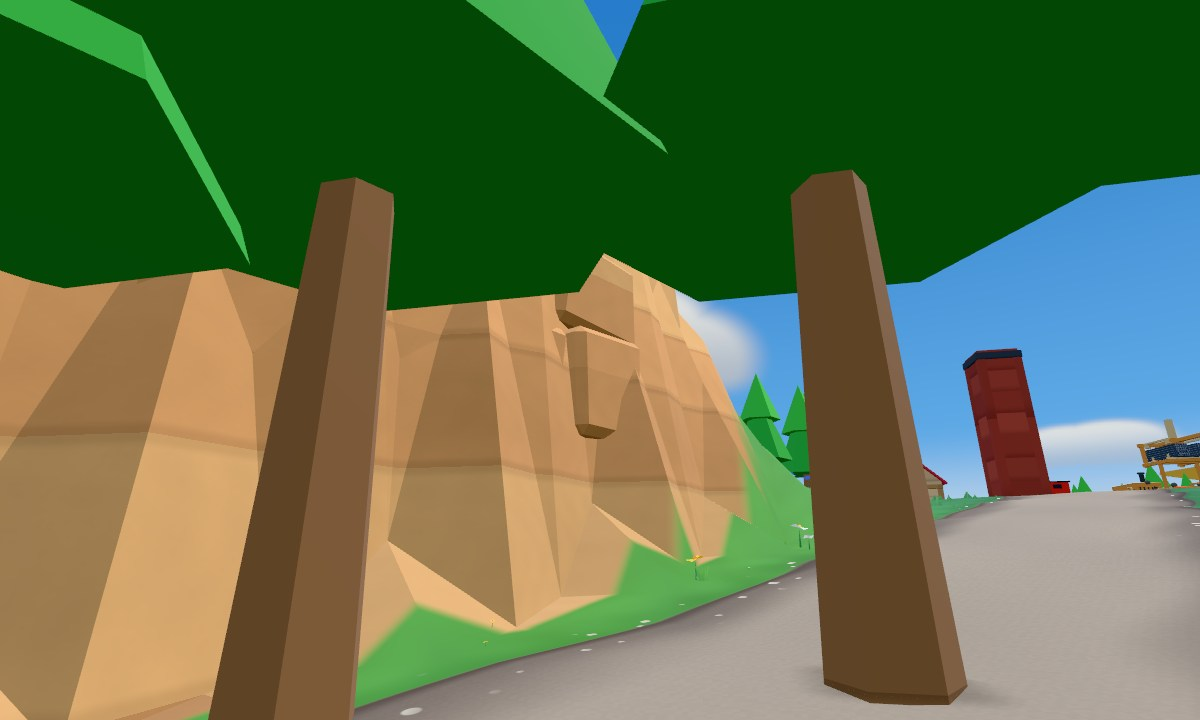
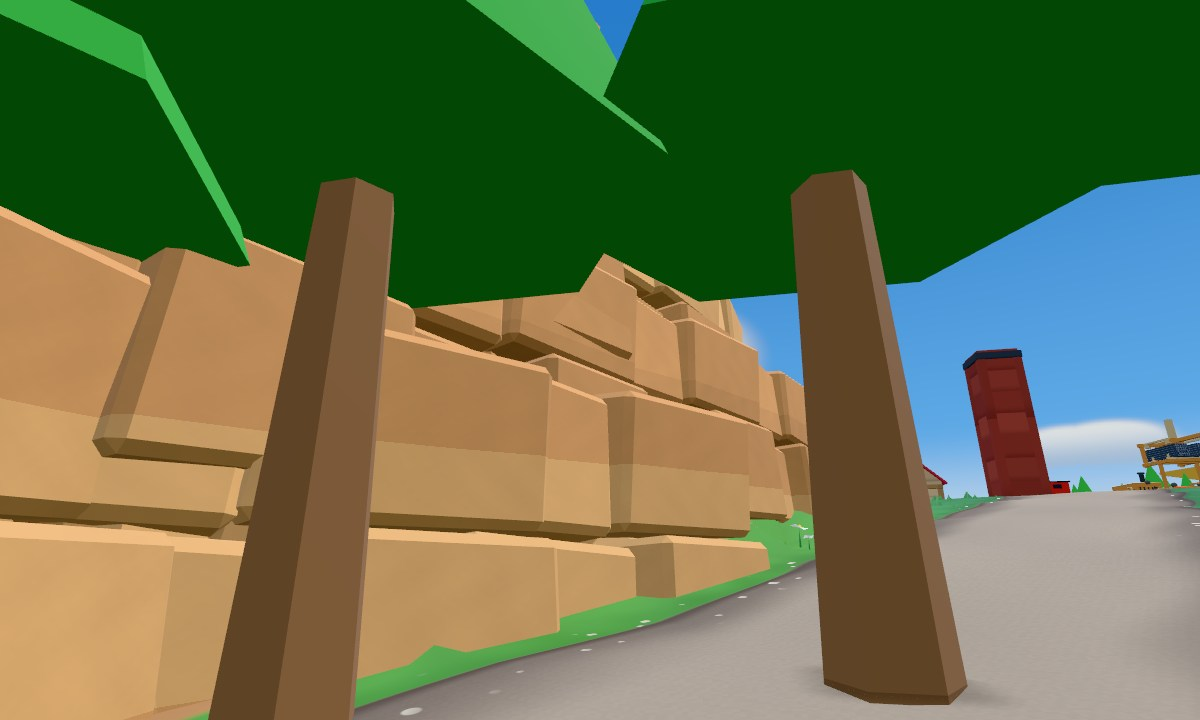
Show continuous cliff courses from the camp path and both rail views

diff --git a/docs/plans/cliff-kit-everywhere.md b/docs/plans/cliff-kit-everywhere.md
@@ -575,21 +575,23 @@ The kit adds 13,540 triangles per pass. At the mouth camera that is 27,080 trian
 
 ## Step 5 as built
 
-The [matched views](cliff-kit-everywhere/north-ridge-before-after.jpg) show the camp path, the east cutting and the ridge at eye level. Each wall mounts separately. The generator seats the ends and middle of each face against its own census wall. It clips the courses at grass and leaves the remote ground bare.
+The [matched sheet](cliff-kit-everywhere/north-ridge-before-after.jpg) shows the camp path, Line 2 passing the cutting, the ridge at eye level and the sandstone below the trestle. Each pair keeps the original main camera. Both walls now use the gorge's continuous courses. The trestle hides much of the cutting from the passing train.
 
-The north ridge has 11 crowned faces. Its closest sampled solid is 3.47 m outside the tread. The controller walked the camp path out and back without falling and moved 0 m over five seconds at idle. The east cutting has five faces. The highest solid sample is at 22.67 m, below both 24.30 m railheads. The reverse floods found zero places walled off, with 37,249 nodes at the ridge and 68,121 at the cutting.
+The generator traces each course horizontally across surveyed toe-to-rim sections. At transitions to grass, the contour ends. Seating the faces near their middle height exposes the courses across the slope and buries their feet. The ridge uses 62 crowned faces across eight levels and the cutting uses 17 across six. Each area culls separately.
 
-The kit adds 9,416 triangles per pass. The largest measured change was 10,460 triangles and four draws from the gorge mouth.
+The nearest ridge solid is 0.55 m outside the tread. The camp path controller reached both ends without falling and moved 0 m over five seconds at idle. The reverse floods found zero places walled off across 37,249 ridge nodes and 68,121 cutting nodes. The highest cutting solid is at 23.00 m, 1.30 m below both railheads.
+
+The kit adds 31,284 triangles per pass. Census measurements include colour and shadow passes.
 
 | Census camera | Draws, main → step 5 | Triangles, main → step 5 |
 | --- | ---: | ---: |
 | shore | 163 → 163 | 782,735 → 782,735 |
-| shore climb | 381 → 383 | 1,031,181 → 1,034,041 |
-| canyon climb | 206 → 208 | 829,299 → 835,855 |
-| gorge rim | 372 → 375 | 967,485 → 976,505 |
-| gorge mouth | 436 → 440 | 1,027,960 → 1,038,420 |
-| Far Head | 291 → 293 | 844,745 → 851,301 |
-| summit | 346 → 347 | 1,006,978 → 1,012,094 |
+| shore climb | 381 → 382 | 1,031,181 → 1,037,913 |
+| canyon climb | 206 → 207 | 829,299 → 853,851 |
+| gorge rim | 372 → 374 | 967,485 → 998,769 |
+| gorge mouth | 436 → 439 | 1,027,960 → 1,060,684 |
+| Far Head | 291 → 292 | 844,745 → 869,297 |
+| summit | 346 → 347 | 1,006,978 → 1,031,530 |
 
 ## Design review (2026-11-24)
 

diff --git a/docs/game-design/graphics.md b/docs/game-design/graphics.md
@@ -194,7 +194,7 @@
   Records: `terrain.*` (src/content/prefabs/terrain.ts), placed by the cliff kit's generator
   [dev/prefab/cliff-kit.ts](../../dev/prefab/cliff-kit.ts), one level an area (the canyon is the first), from the
   ground; each area its own instance batches (the canyon's seven, 6,688 triangles a pass). The kit goes on every cliff
-  area by area ([cliff-kit-everywhere](../plans/cliff-kit-everywhere.md)). Above the camp path, the north ridge carries crowned sandstone on its rock bands. Five faces step down the east cutting below both Line 2 tracks. At the gorge mouth, crowned sandstone courses follow both banks. Two separate sandstone outcrops follow the exposed bands on the south sea cliff. The trees and the crack beside the south path keep their bare ground. At the rim lookout, sandstone courses follow
+  area by area ([cliff-kit-everywhere](../plans/cliff-kit-everywhere.md)). Above the camp path, eight tiers of crowned sandstone follow the exposed north ridge from its foot to its rim. Six tiers follow the east cutting below both Line 2 tracks. At the gorge mouth, crowned sandstone courses follow both banks. Two separate sandstone outcrops follow the exposed bands on the south sea cliff. The trees and the crack beside the south path keep their bare ground. At the rim lookout, sandstone courses follow
   the height contours on both riverbanks and above the camp path. The climb's existing faces meet those upper courses.
   The crowns are too steep to stand on, and the descent, bridge approach and climb keep their full tread width.
   From Line 2 the courses follow both long walls to the quarry footbridge. The east wall carries cap stones along
